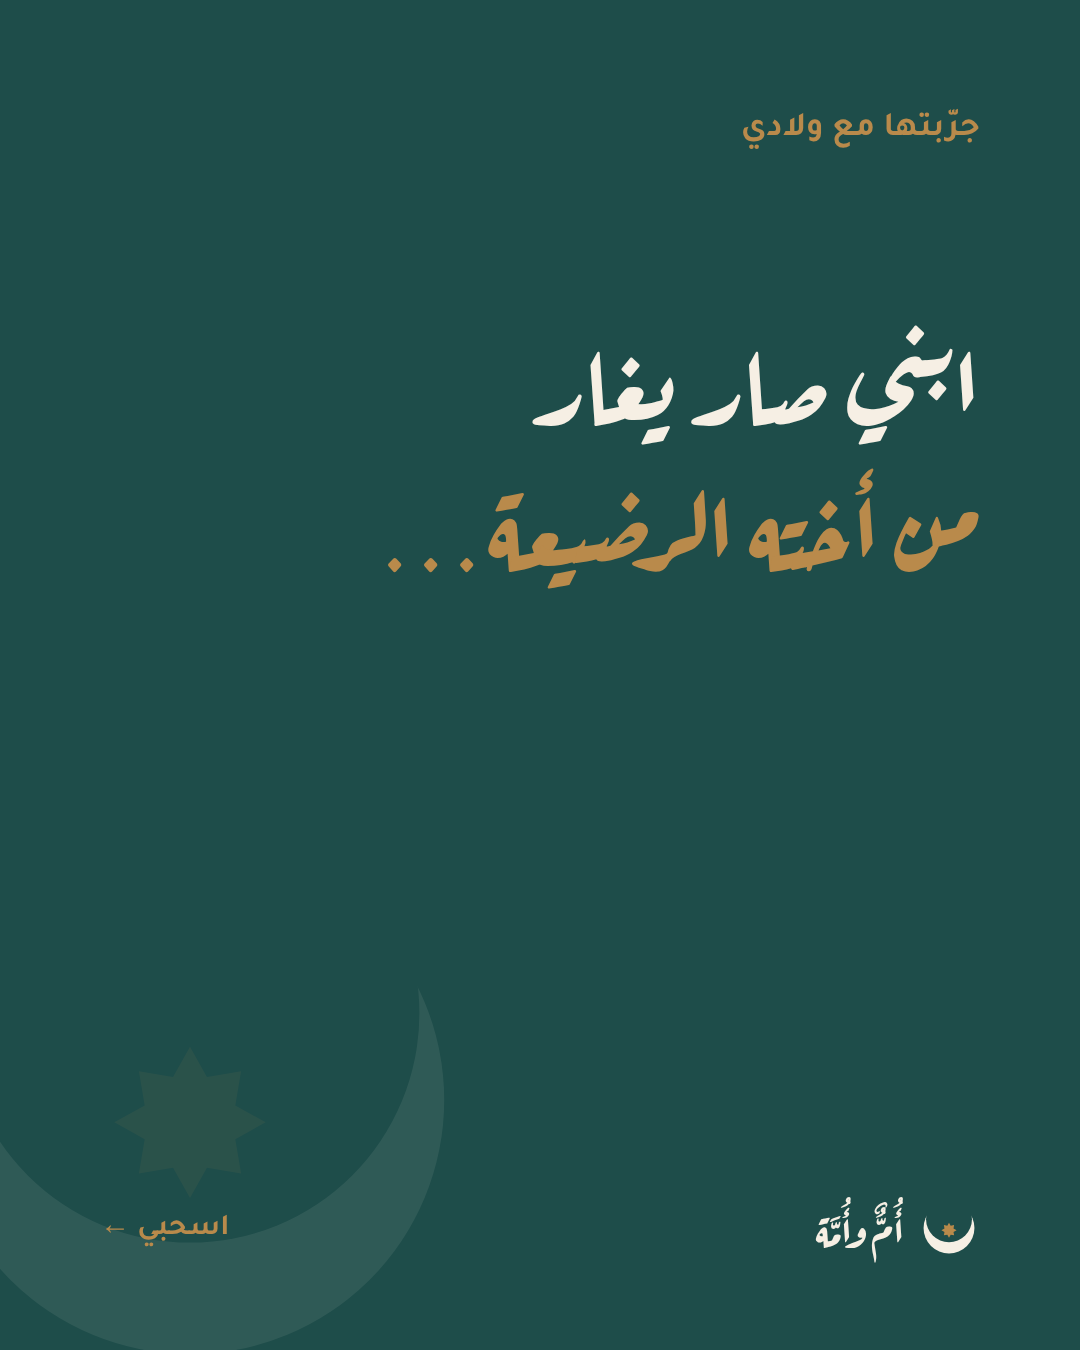
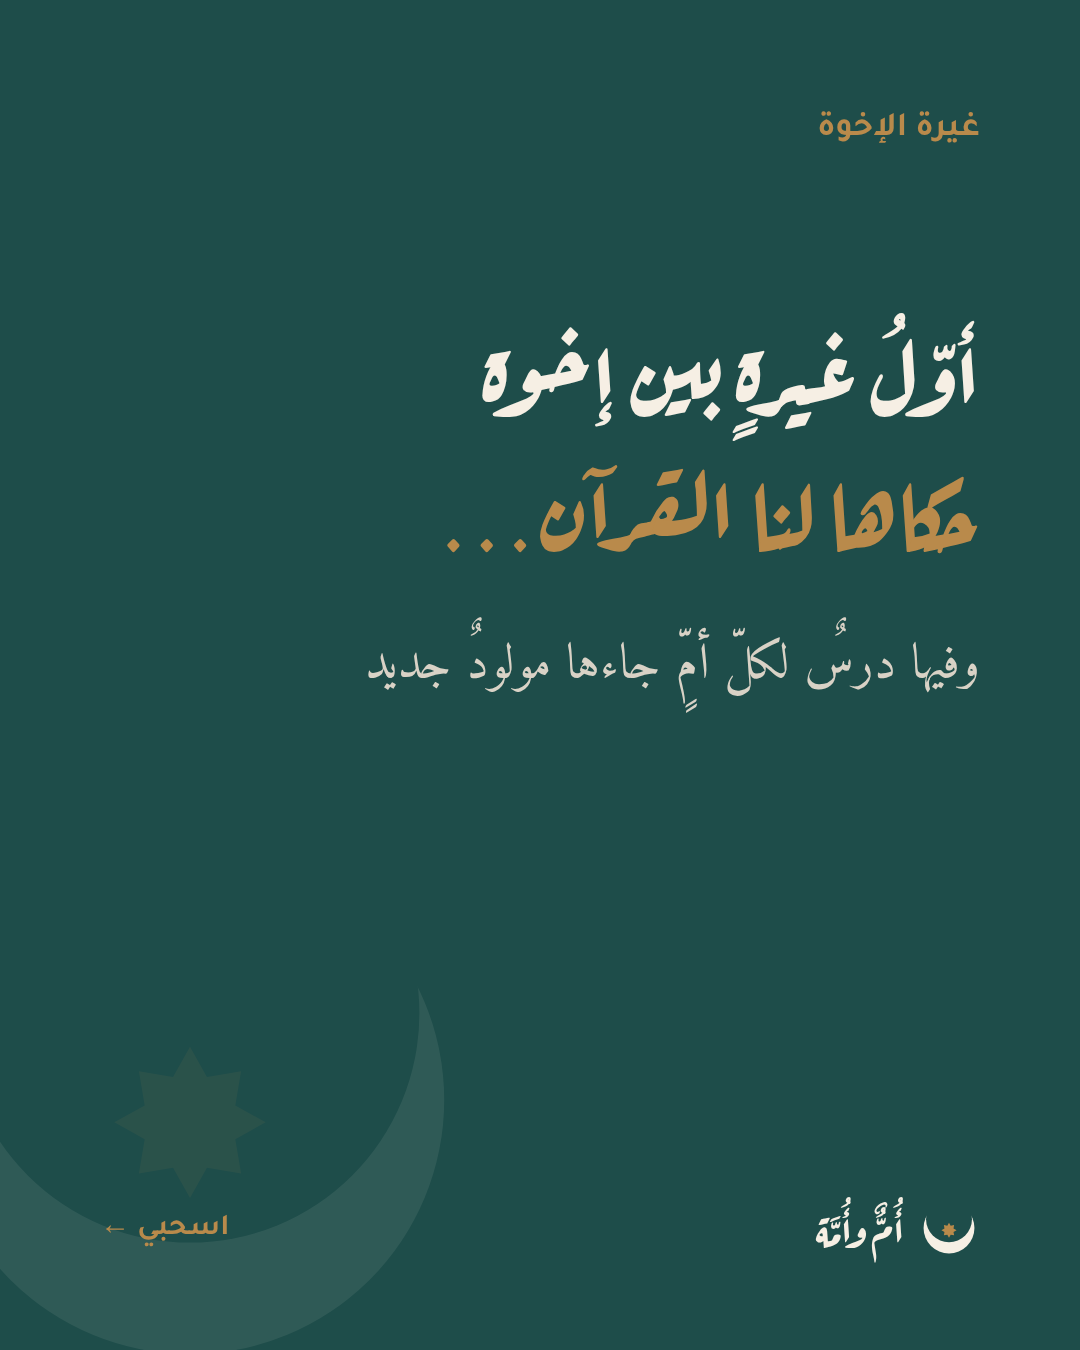
Rework post 3 as a five-slide carousel built on Surat Yusuf
Claude-Session: https://claude.ai/code/session_01At4XTUkCTKxbjrDgmY6y1k

diff --git a/umm-wa-umma/posts/week1.html b/umm-wa-umma/posts/week1.html
@@ -98,32 +98,54 @@ body{background:#888;font-family:Tajawal,sans-serif}
   <div class="foot"><div class="sig"><svg style="color:#1E4D4A"><use href="#mk"/></svg>أُمٌّ وأُمَّة</div><div class="user">@umm.wa.umma</div></div>
 </div>
 
-<!-- ===== Post 3: sibling jealousy ===== -->
+<!-- ===== Post 3: sibling jealousy, lesson from Surat Yusuf ===== -->
 <div class="s teal" data-file="post3-1">
   <svg class="bigmark" style="color:#F6EFE4"><use href="#mk"/></svg>
-  <div class="k">جرّبتها مع ولادي</div>
-  <div class="big" style="font-size:108px">ابني صار يغار<br><span class="gold">من أخته الرضيعة…</span></div>
+  <div class="k">غيرة الإخوة</div>
+  <div class="big" style="font-size:100px">أوّلُ غيرةٍ بين إخوة<br><span class="gold">حكاها لنا القرآن…</span></div>
+  <div class="small" style="margin-top:50px;color:#d9d2c6">وفيها درسٌ لكلّ أمٍّ جاءها مولودٌ جديد</div>
   <div class="foot"><div class="sig"><svg style="color:#F6EFE4"><use href="#mk"/></svg>أُمٌّ وأُمَّة</div><div class="swipe">اسحبي ←</div></div>
 </div>
 
 <div class="s sand" data-file="post3-2">
-  <div class="num">2/3</div>
-  <div class="small" style="margin-top:100px">بدل ما أقول:</div>
-  <div class="txt rose" style="margin-top:10px">✕ «عيب، هي صغيرة!»</div>
-  <div class="small" style="margin-top:60px">قلت له:</div>
-  <div class="txt" style="margin-top:10px;font-weight:700">✓ «صعب عليك إنّي صرت<br>أحملها كثير، صح؟»</div>
-  <div class="small gold" style="margin-top:50px">سكت… ثم ارتمى في حضني.</div>
+  <div class="num">2/5</div>
+  <div class="k" style="margin-top:20px">قال تعالى:</div>
+  <div class="txt" style="margin-top:40px;font-size:64px;font-weight:700;text-align:center;line-height:1.9">﴿ إِذْ قَالُوا لَيُوسُفُ وَأَخُوهُ<br>أَحَبُّ إِلَىٰ أَبِينَا مِنَّا ﴾</div>
+  <div class="src" style="text-align:center">[يوسف: ٨]</div>
+  <div class="small" style="margin-top:70px;color:#4a433d">حتى في بيت نبيّ…<br>بدأت الغيرة من <span class="gold" style="font-weight:700">إحساسٍ</span> بأنّ الحبّ<br>ليس مقسوماً بالتساوي.</div>
   <div class="foot"><div class="sig"><svg style="color:#1E4D4A"><use href="#mk"/></svg>أُمٌّ وأُمَّة</div><div class="swipe">اسحبي ←</div></div>
 </div>
 
 <div class="s white" data-file="post3-3">
-  <div class="num">3/3</div>
-  <div class="mid" style="margin-top:40px">الطفل الذي يغار<br>لا يحتاج عقاباً…<br><span class="gold">يحتاج اعترافاً.</span></div>
-  <div class="box" style="background:var(--sand)">
-    <div class="k" style="font-size:34px">📚 من كتاب</div>
-    <div class="small" style="margin-top:12px;color:#2A2522">«إخوة بلا تنافس»<br><span style="font-size:38px;color:#7a716a">Siblings Without Rivalry</span></div>
+  <div class="num">3/5</div>
+  <div class="mid" style="margin-top:40px;font-size:78px">طفلُكِ لا يغار<br>لأنّكِ تحبّين أخاه…</div>
+  <div class="txt" style="margin-top:40px">بل لأنّه يخاف أن تكون <span class="gold" style="font-weight:700">حصّته<br>من قلبكِ</span> قد نقصت.</div>
+  <div class="box" style="background:var(--sand);margin-top:60px">
+    <div class="small" style="font-size:46px;color:#1E4D4A;font-weight:700">قال ﷺ: «فاتّقوا الله، واعدِلوا بين أولادكم»</div>
+    <div class="src" style="margin-top:10px">متفقٌ عليه</div>
   </div>
-  <div class="foot"><div class="sig"><svg style="color:#1E4D4A"><use href="#mk"/></svg>أُمٌّ وأُمَّة</div><div class="user">@umm.wa.umma</div></div>
+  <div class="foot"><div class="sig"><svg style="color:#1E4D4A"><use href="#mk"/></svg>أُمٌّ وأُمَّة</div><div class="swipe">اسحبي ←</div></div>
+</div>
+
+<div class="s sand" data-file="post3-4">
+  <div class="num">4/5</div>
+  <div class="mid" style="margin-top:40px;font-size:76px">ماذا فعلتُ مع ابني؟</div>
+  <ul class="list" style="margin-top:40px">
+    <li><b>١</b><span>سمّيتُ شعوره:<br><span style="color:#B98A4B">«صعب عليك إنّي صرت أحملها كثير، صح؟»</span></span></li>
+    <li><b>٢</b><span>وقتٌ خاصّ له وحده، ١٠ دقائق كل يوم</span></li>
+    <li><b>٣</b><span>جعلته شريكاً لا منافساً:<br><span style="color:#B98A4B">«بتساعدني أختار لبسها؟»</span></span></li>
+    <li style="border:0"><b>٤</b><span>لا مقارنة أبداً، ولا «شوف أختك…»</span></li>
+  </ul>
+  <div class="foot"><div class="sig"><svg style="color:#1E4D4A"><use href="#mk"/></svg>أُمٌّ وأُمَّة</div><div class="swipe">اسحبي ←</div></div>
+</div>
+
+<div class="s teal" data-file="post3-5">
+  <svg class="bigmark" style="color:#F6EFE4"><use href="#mk"/></svg>
+  <div class="num">5/5</div>
+  <div class="txt" style="margin-top:150px;font-size:64px">العدلُ في الحبّ لا يعني<br>أن نعطيهم <span class="gold">الشيءَ نفسه…</span></div>
+  <div class="mid" style="margin-top:50px;font-size:80px">بل أن يشعرَ كلٌّ منهم<br>أنّه <span class="gold">محبوبٌ كاملاً.</span></div>
+  <div class="small" style="margin-top:60px;font-size:36px;color:#d9d2c6">📚 مستوحى من كتاب «إخوة بلا تنافس»</div>
+  <div class="foot"><div class="sig"><svg style="color:#F6EFE4"><use href="#mk"/></svg>أُمٌّ وأُمَّة</div><div class="user">احفظيه 🔖 وشاركيه مع أمّ تحتاجه</div></div>
 </div>
 </body>
 </html>

diff --git a/umm-wa-umma/posts/captions-week1.md b/umm-wa-umma/posts/captions-week1.md
@@ -40,23 +40,26 @@
 
 ---
 
-## البوست ٣: غيرة الأخ من المولود الجديد
-الصور: post3-1، post3-2، post3-3
+## البوست ٣: غيرة الإخوة، درسٌ من سورة يوسف
+الصور: post3-1، post3-2، post3-3، post3-4، post3-5
 
 ```
-بعد ولادة أخته، صار ابني الكبير يكسر ألعابها، ويطلب أن أحمله هو، ويبكي على أتفه الأسباب…
+أوّل غيرةٍ بين إخوة حكاها لنا القرآن… بدأت بجملة:
+﴿إِذْ قَالُوا لَيُوسُفُ وَأَخُوهُ أَحَبُّ إِلَىٰ أَبِينَا مِنَّا﴾ [يوسف: ٨]
 
-كنت أقول له: «عيب، هي صغيرة!»
-وكان يزيد.
+حتى في بيت نبيّ… شعر الإخوة أنّ الحبّ ليس مقسوماً بالتساوي.
 
-ثم قرأتُ في كتاب «إخوة بلا تنافس» أنّ الطفل الذي يغار لا يحتاج عقاباً… يحتاج اعترافاً بشعوره.
+ولمّا جاءت أخته الصغيرة، رأيتُ هذا الإحساس في عيون ابني الكبير.
+لم يكن يغار لأنّي أحبّها… كان يخاف أن تكون حصّته من قلبي قد نقصت.
 
-فقلتُ له: «صعب عليك إنّي صرت أحملها كثير، صح؟»
-سكت… ثم ارتمى في حضني.
+قال ﷺ: «فاتّقوا الله، واعدِلوا بين أولادكم» (متفق عليه).
+والعدل في الحبّ لا يعني أن نعطيهم الشيء نفسه… بل أن يشعر كلٌّ منهم أنّه محبوبٌ كاملاً.
 
-أحياناً، كل ما يريده أطفالنا أن نُسمّي لهم الوجع 🤍
+اسحبي لتري ماذا فعلتُ معه 👈
 
-هل مرّ أطفالكِ بغيرة الإخوة؟ كيف تعاملتِ معها؟ 👇
+📚 مستوحى من كتاب «إخوة بلا تنافس»
 
-#أم_وأمة #غيرة_الأطفال #تربية_الأطفال #تربية_واعية #أمهات #الأمومة
+احفظي البوست 🔖 وشاركيه مع أمٍّ جاءها مولودٌ جديد 🤍
+
+#أم_وأمة #غيرة_الأطفال #غيرة_الإخوة #تربية_إسلامية #تربية_الأطفال #أمهات #الأمومة
 ```
